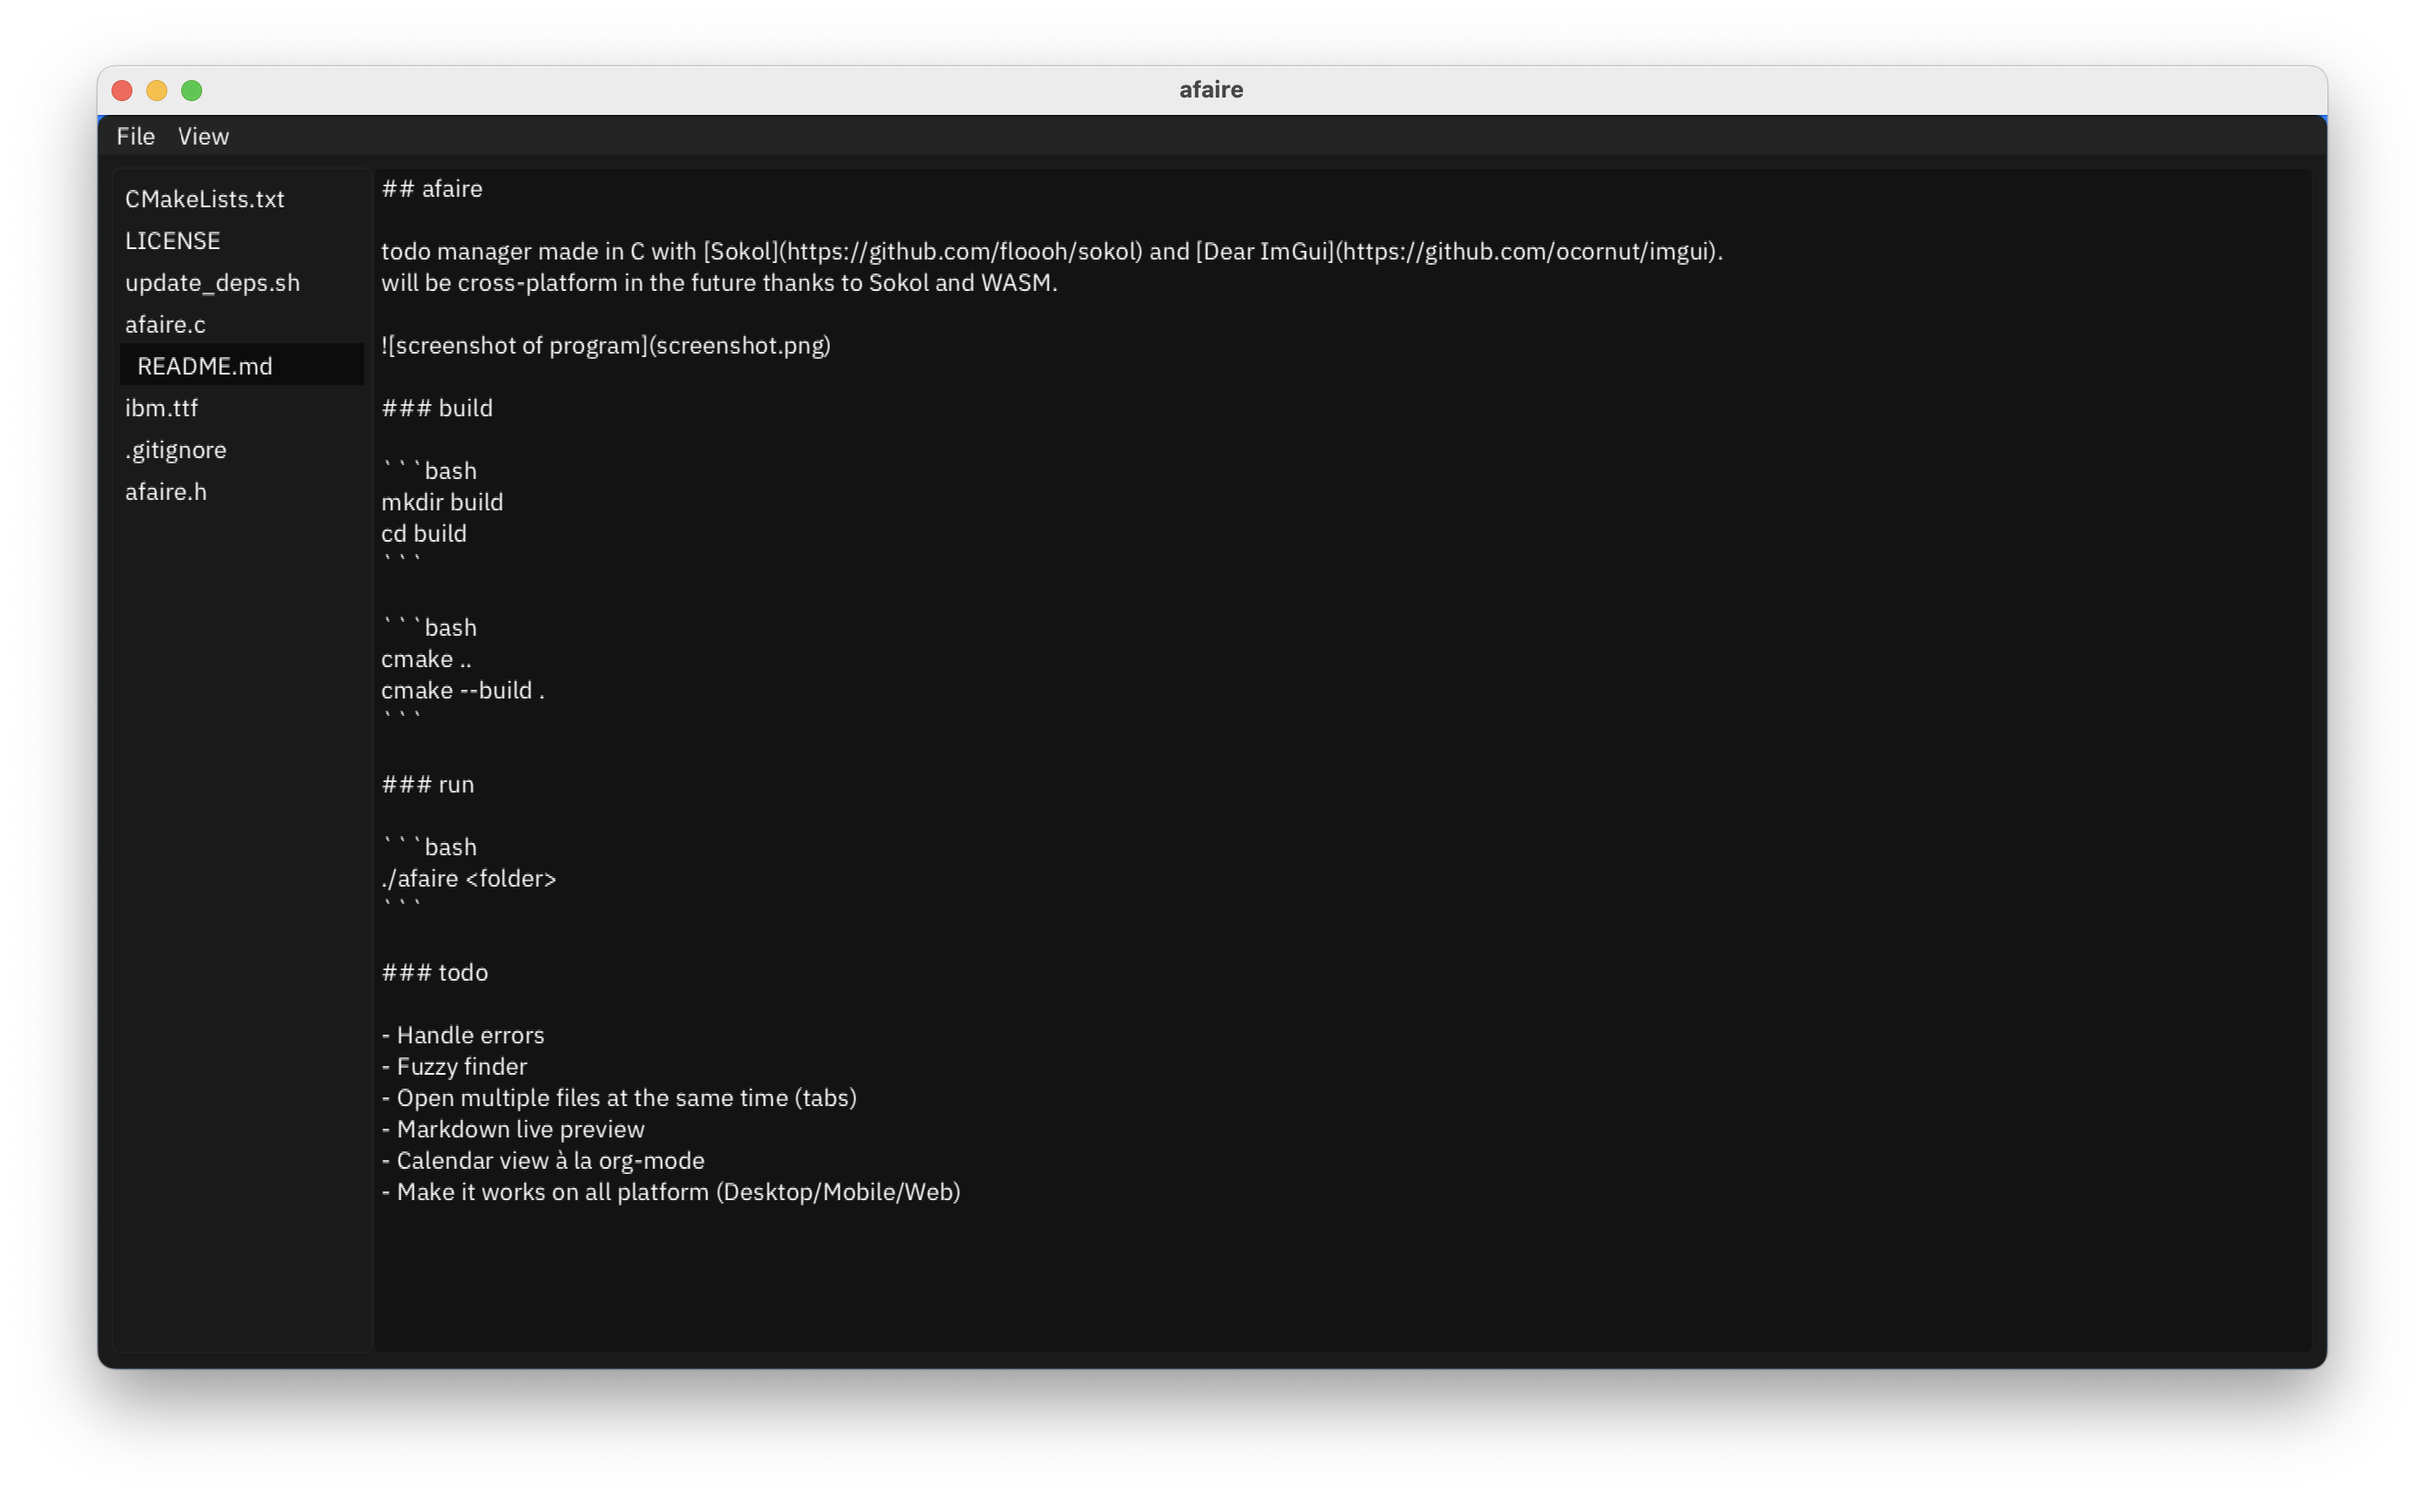
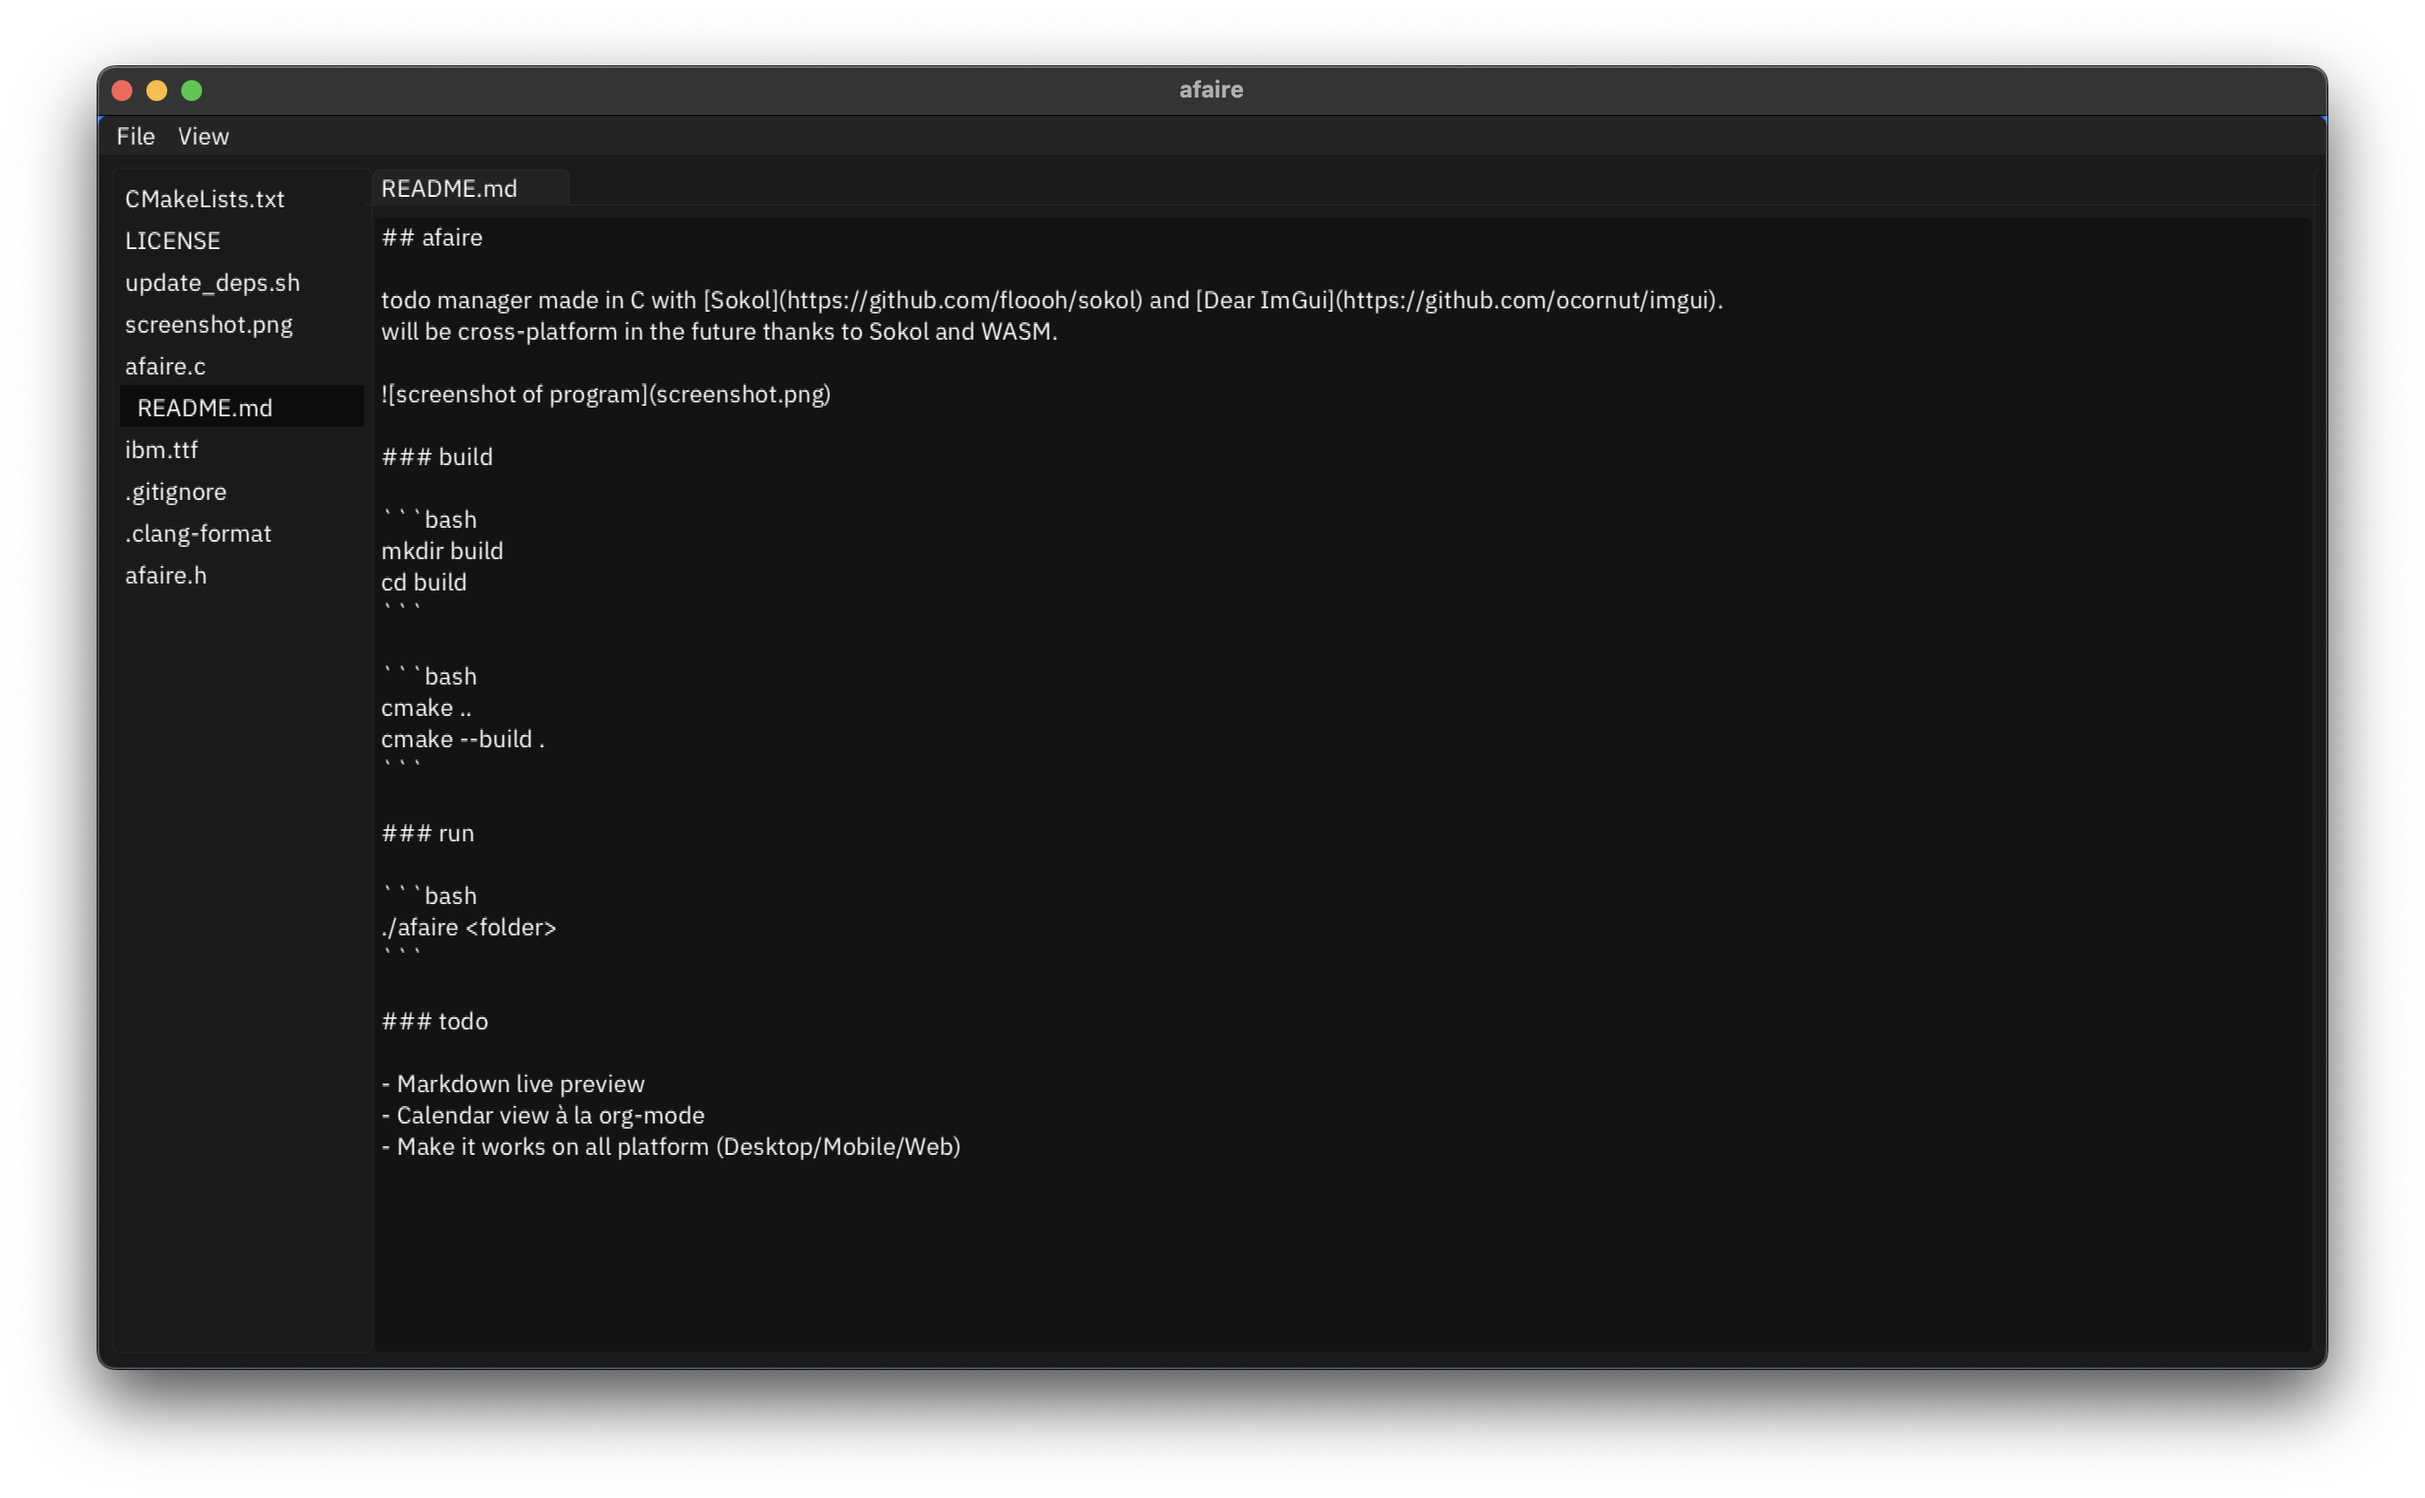
fixed bug, updated screenshot

Changed region(s): [[0.0312, 0.0308, 0.9688, 0.9552], [0.1562, 0.1233, 0.7188, 0.4006], [0.1562, 0.4314, 0.4062, 0.8012]]

diff --git a/afaire.c b/afaire.c
@@ -83,6 +83,7 @@ static void init(void) {
                                      .selected_filename = {0}};
     }
     current_editor = &state.editor[0];
+    strncpy(current_editor->filename, "*scratch*", MAX_STRING_LENGTH);
     current_editor->active = true;
 
     if (folder[0] == '\0') {
@@ -127,24 +128,6 @@ static void new_file(const char *path, const char *filename) {
     }
 }
 
-static void save_file(const char *path) {
-    if (!current_editor->dirty) {
-        return;
-    }
-    char fullpath[BUFFER_SIZE];
-    char *filename;
-    filename = current_editor->filename;
-    snprintf(fullpath, sizeof(fullpath), "%s/%s", path, filename);
-    FILE *file = fopen(fullpath, "w");
-    if (file) {
-        fwrite(&current_editor->buf, 1, strlen(current_editor->buf), file);
-        fclose(file);
-        set_dirty(0, filename, true);
-    } else {
-        snprintf(state.error_message, sizeof(state.error_message), "Could not save file %s", filename);
-    }
-}
-
 static void delete_file(const char *path, int i) {
     char fullpath[BUFFER_SIZE];
     char *filename;
@@ -171,6 +154,25 @@ static void read_dir(const char *path) {
         closedir(d);
     } else {
         snprintf(state.error_message, sizeof(state.error_message), "Could not open directory %s", path);
+    }
+}
+
+static void save_file(const char *path) {
+    if (!current_editor->dirty) {
+        return;
+    }
+    char fullpath[BUFFER_SIZE];
+    char *filename;
+    filename = current_editor->filename;
+    snprintf(fullpath, sizeof(fullpath), "%s/%s", path, filename);
+    FILE *file = fopen(fullpath, "w");
+    if (file) {
+        fwrite(&current_editor->buf, 1, strlen(current_editor->buf), file);
+        fclose(file);
+        set_dirty(0, filename, true);
+        read_dir(path);
+    } else {
+        snprintf(state.error_message, sizeof(state.error_message), "Could not save file %s", filename);
     }
 }
 
